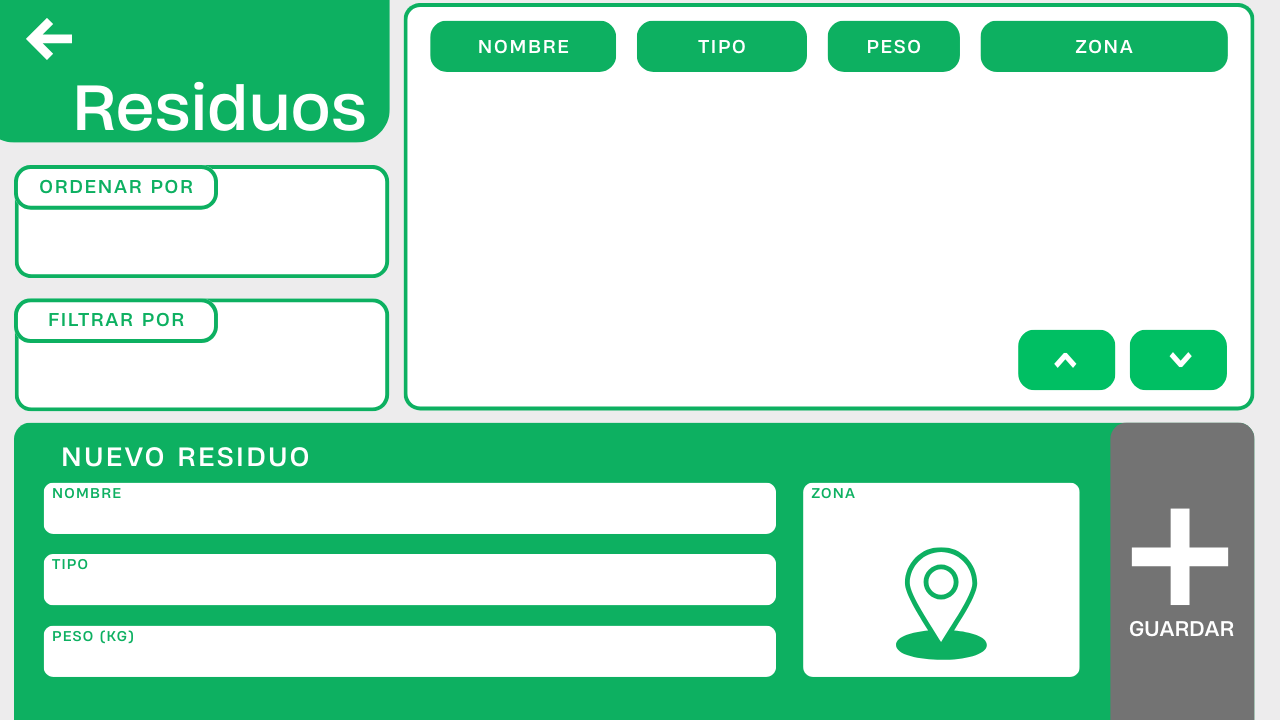
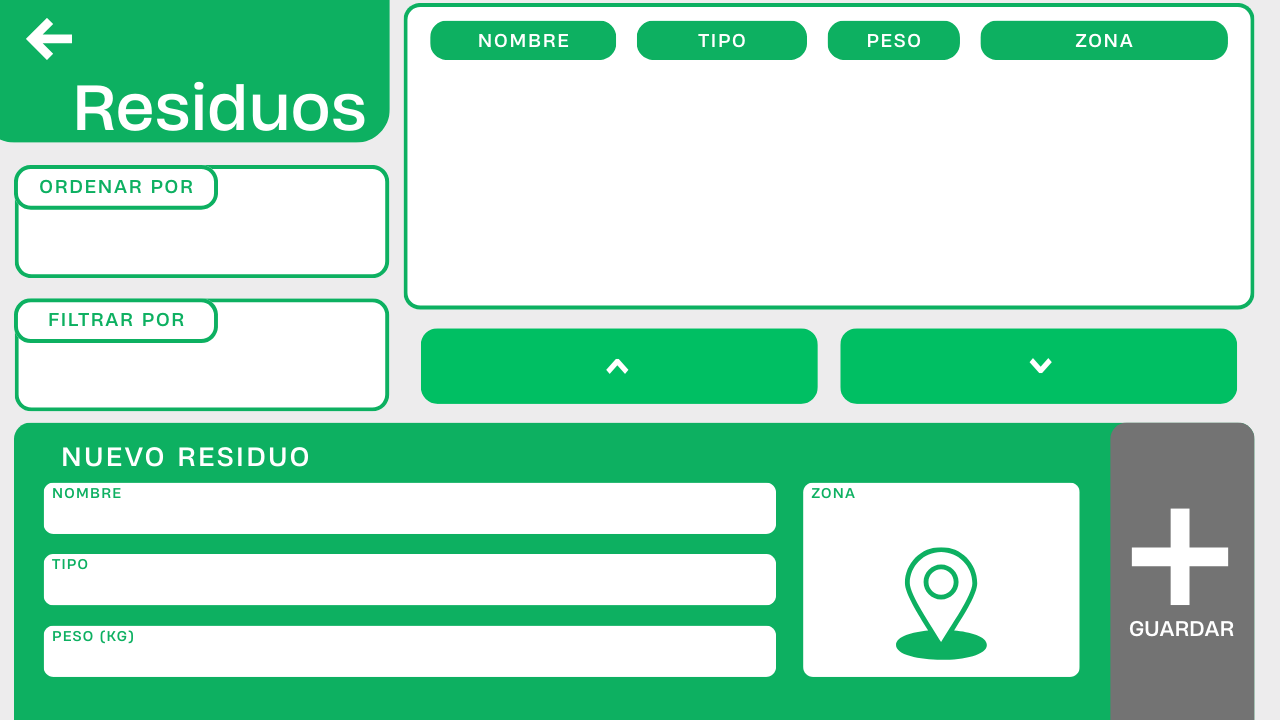
Residuos se muestran enlsitados en ResiduosScene una vez agregados y son almacenados.

Changed region(s): [[0.3125, 0.3972, 1.0, 0.5806], [0.3125, 0.0306, 0.9688, 0.1222]]

diff --git a/src/controladores/ResiduosController.java b/src/controladores/ResiduosController.java
@@ -5,6 +5,7 @@
 package controladores;
 
 import ecotrack.Zona;
+import ecotrack.ZonaGuayaquil;
 import ecotrack.Residuo;
 import ecotrack.TipoResiduo;
 import ecotrack.ListaResiduos;
@@ -22,6 +23,7 @@ import javafx.scene.Scene;
 import javafx.scene.control.Button;
 import javafx.scene.control.ChoiceBox;
 import javafx.scene.control.Label;
+import javafx.scene.control.ListView;
 import javafx.scene.control.TextField;
 import javafx.scene.image.ImageView;
 import javafx.scene.paint.Color;
@@ -37,7 +39,16 @@ public class ResiduosController implements Initializable{
 
     private Stage stage;
     private Scene scene;
-    private Parent root;    
+    private Parent root;
+
+    @FXML    
+    private ListView<String> nombreShownListView;
+    @FXML
+    private ListView<TipoResiduo> tipoShownListView;
+    @FXML
+    private ListView<Double> pesoShownListView;
+    @FXML
+    private ListView<ZonaGuayaquil> zonaShownListView;
     
     @FXML
     private ImageView residuosSceneView;
@@ -59,24 +70,25 @@ public class ResiduosController implements Initializable{
     @FXML
     private ChoiceBox<String> filtradoChoiceBox;
     @FXML
-    private ChoiceBox<String> zonaChoiceBox;
+    private ChoiceBox<ZonaGuayaquil> zonaChoiceBox;
     
     private String[] opcionesFiltrado = {};
     private String[] opcionesOrdenado = {};
-    private String[] zonas = {"Fortin / Monte Sinai", "Vergeles", "Sauces / Samanes", "Bastion", "Via a la Costa 1", "Via a la Costa 2", "Urdesa / Kennedy", "San Felipe / Mapasingue", "Samborondon", "Prosperina / Ceibos", "Portete", "Parque Centenario", "Isla Trinitaria", "Isla Mocoli", "Guasmo", "FAE", "Entre Rios / La Puntilla", "Centro"};
-    private TipoResiduo[] tiposResiduo = TipoResiduo.values();
+    
+    private String ordenamiento;
+    private String filtrado;
     
     private String nombreResiduo;
     private TipoResiduo tipoResiduo;
     private int valorPeso;
-    private Zona zonaResiduo;
+    private ZonaGuayaquil zonaResiduo;
     
     @Override
     public void initialize(URL arg0, ResourceBundle arg1){
-        tipoChoiceBox.getItems().addAll(tiposResiduo);
+        tipoChoiceBox.getItems().addAll(TipoResiduo.values());
         tipoChoiceBox.setOnAction(this::establecerTipo);
         
-        zonaChoiceBox.getItems().addAll(zonas);
+        zonaChoiceBox.getItems().addAll(ZonaGuayaquil.values());
         zonaChoiceBox.setOnAction(this::establecerZona);
         
         ordenamientoChoiceBox.getItems().addAll(opcionesOrdenado);
@@ -84,10 +96,18 @@ public class ResiduosController implements Initializable{
         
         filtradoChoiceBox.getItems().addAll(opcionesFiltrado);
         filtradoChoiceBox.setOnAction(this::elegirFiltrado);
+        
+        for (Residuo r : ListaResiduos.getListaResiduosGlobal()){
+            nombreShownListView.getItems().add(r.getNombre());
+            tipoShownListView.getItems().add(r.getTipo());
+            pesoShownListView.getItems().add(r.getPeso());
+            zonaShownListView.getItems().add(r.getZona().getZonaGuayaquil());
+        }
+        
     }
     
     public void establecerZona(ActionEvent event){
-        String zona = zonaChoiceBox.getValue();
+        zonaResiduo = zonaChoiceBox.getValue();
     }
     
     public void establecerTipo(ActionEvent event){
@@ -95,11 +115,11 @@ public class ResiduosController implements Initializable{
     }
     
     public void elegirOrdenamiento(ActionEvent event){
-        String ordenamiento = ordenamientoChoiceBox.getValue();
+        ordenamiento = ordenamientoChoiceBox.getValue();
     }
     
     public void elegirFiltrado(ActionEvent event){
-        String filtrado = filtradoChoiceBox.getValue();
+        filtrado = filtradoChoiceBox.getValue();
     }
     
     public void agregarResiduo(ActionEvent event){
@@ -135,9 +155,8 @@ public class ResiduosController implements Initializable{
 
             nombreResiduo = nombreField.getText();
             tipoResiduo = tipoChoiceBox.getValue();
-            
 
-            Residuo r = new Residuo(nombreResiduo, tipoResiduo, valorPeso);
+            Residuo r = new Residuo(nombreResiduo, tipoResiduo, valorPeso, zonaResiduo);
             ListaResiduos.getListaResiduosGlobal().addLast(r);
 
             avisoLabel.setText("Se agregó el Residuo Exitosamente");
@@ -145,6 +164,13 @@ public class ResiduosController implements Initializable{
 
             // Limpiar campos después de agregar exitosamente
             limpiarCampos();
+            
+            for (Residuo re : ListaResiduos.getListaResiduosGlobal()){
+                nombreShownListView.getItems().add(re.getNombre());
+                tipoShownListView.getItems().add(re.getTipo());
+                pesoShownListView.getItems().add(re.getPeso());
+                zonaShownListView.getItems().add(re.getZona().getZonaGuayaquil());
+            }
 
         }
         catch (NumberFormatException e){
@@ -155,6 +181,7 @@ public class ResiduosController implements Initializable{
             avisoLabel.setText("Error: " + e.getMessage());
             avisoLabel.setTextFill(Color.RED);
         }
+        
     }
 
     // Método auxiliar para limpiar campos

diff --git a/src/ecotrack/ListaZonas.java b/src/ecotrack/ListaZonas.java
@@ -1,0 +1,112 @@
+/*
+ * Click nbfs://nbhost/SystemFileSystem/Templates/Licenses/license-default.txt to change this license
+ * Click nbfs://nbhost/SystemFileSystem/Templates/Classes/Class.java to edit this template
+ */
+package ecotrack;
+
+import TDA.CircularDoublyLinkedList;
+
+/**
+ *
+ * @author Paúl Rodríguez
+ */
+
+public class ListaZonas extends CircularDoublyLinkedList<Zona> {
+    
+    private static ListaZonas instance;
+    
+    // Constructor privado
+    private ListaZonas() {
+        super();
+        inicializarZonas();
+    }
+    
+    // Método para obtener la única instancia
+    public static ListaZonas getInstance() {
+        if (instance == null) {
+            instance = new ListaZonas();
+        }
+        return instance;
+    }
+    
+    // Inicializar todas las zonas de Guayaquil
+    private void inicializarZonas() {
+        for (ZonaGuayaquil zonaEnum : ZonaGuayaquil.values()) {
+            Zona zona = new Zona(zonaEnum);
+            addLast(zona);
+        }
+    }
+    
+    // MÉTODO PRINCIPAL: Buscar zona por enum
+    public Zona buscarPorZonaGuayaquil(ZonaGuayaquil zonaGuayaquil) {
+        for (Zona zona : this) {
+            if (zona.getZonaGuayaquil() == zonaGuayaquil) {
+                return zona;
+            }
+        }
+        return null; // No debería ocurrir si todas las zonas están inicializadas
+    }
+    
+    // Método alternativo: buscar por nombre
+    public Zona buscarPorNombre(String nombre) {
+        for (Zona zona : this) {
+            if (zona.getZonaGuayaquil().toString().equalsIgnoreCase(nombre)) {
+                return zona;
+            }
+        }
+        return null;
+    }
+    
+    // Obtener peso total pendiente de todas las zonas
+    public int calcularPesoTotalPendiente() {
+        int total = 0;
+        for (Zona zona : this) {
+            total += zona.getPesoPendiente();
+        }
+        return total;
+    }
+    
+    // Obtener zona con más peso pendiente
+    public Zona obtenerZonaMasPendiente() {
+        if (isEmpty()) {
+            return null;
+        }
+        
+        Zona zonaMasPendiente = get(0);
+        for (Zona zona : this) {
+            if (zona.getPesoPendiente() > zonaMasPendiente.getPesoPendiente()) {
+                zonaMasPendiente = zona;
+            }
+        }
+        return zonaMasPendiente;
+    }
+    
+    // Para JavaFX - Conversión a ObservableList
+    public javafx.collections.ObservableList<Zona> toObservableList() {
+        javafx.collections.ObservableList<Zona> observableList
+                = javafx.collections.FXCollections.observableArrayList();
+        
+        for (Zona zona : this) {
+            observableList.add(zona);
+        }
+        
+        return observableList;
+    }
+    
+    @Override
+    public String toString() {
+        if (isEmpty()) {
+            return "ListaZonas[vacía]";
+        }
+        
+        StringBuilder sb = new StringBuilder();
+        sb.append("ListaZonas[\n");
+        
+        for (Zona zona : this) {
+            sb.append("  ").append(zona.toString()).append("\n");
+        }
+        
+        sb.append("]");
+        return sb.toString();
+    }
+}

diff --git a/src/ecotrack/Residuo.java b/src/ecotrack/Residuo.java
@@ -12,21 +12,30 @@ import java.time.LocalDate;
  */
 public class Residuo {
 
-    private int currentId = 0;
+    private static int currentId = 0;
     private int id;
     private String nombre;
     private TipoResiduo tipo;
     private double peso;
     private LocalDate fechaRecoleccion;
     private int prioridad;
+    private Zona zona;
 
-    public Residuo(String nombre, TipoResiduo tipo, double peso){
+    public Residuo(String nombre, TipoResiduo tipo, double peso, ZonaGuayaquil zona){
         id = currentId++;
         this.nombre = nombre;
         this.tipo = tipo;
         this.peso = peso;
         fechaRecoleccion = null;
+        
+        this.zona = ListaZonas.getInstance().buscarPorZonaGuayaquil(zona);
+        
+        if (this.zona != null) {
+            this.zona.setPesoPendiente(this.zona.getPesoPendiente() + peso);
+        }
+        
         System.out.println(this);
+        
     }
     
     public int getId() {
@@ -74,6 +83,13 @@ public class Residuo {
     }
     public void setPrioridad(int n){
         prioridad= n;
+    }
+    
+    public Zona getZona(){
+        return zona;
+    }
+    public void setZona(Zona z){
+        zona = z;
     }
     
     @Override

diff --git a/src/ecotrack/Zona.java b/src/ecotrack/Zona.java
@@ -10,12 +10,19 @@ package ecotrack;
  */
 
 public class Zona {
-    int pesoPendiente;
+    private ZonaGuayaquil zonaGuayaquil;
+    double pesoPendiente;
     
-    public int getPesoPendiente(){ return pesoPendiente; }
-    public void setPesoPendiente(int p){ pesoPendiente = p; }
+    public Zona(ZonaGuayaquil zonaGuayaquil) {
+        this.zonaGuayaquil = zonaGuayaquil;
+        this.pesoPendiente = 0;
+    }
     
-    public int calcularUtilidadAmbiental(int pesoRecolectado){
+    public double getPesoPendiente(){ return pesoPendiente; }
+    public void setPesoPendiente(double p){ pesoPendiente = p; }
+    public ZonaGuayaquil getZonaGuayaquil(){ return zonaGuayaquil; }
+    
+    public double calcularUtilidadAmbiental(int pesoRecolectado){
         return pesoRecolectado - pesoPendiente;  
     }
     

diff --git a/src/ecotrack/ZonaGuayaquil.java b/src/ecotrack/ZonaGuayaquil.java
@@ -1,0 +1,30 @@
+/*
+ * Click nbfs://nbhost/SystemFileSystem/Templates/Licenses/license-default.txt to change this license
+ * Click nbfs://nbhost/SystemFileSystem/Templates/Classes/Enum.java to edit this template
+ */
+package ecotrack;
+
+/**
+ *
+ * @author Paúl Rodríguez
+ */
+public enum ZonaGuayaquil {
+    FORTIN_MONTE_SINAI,
+    VERGELES,
+    SAUCES_SAMANES,
+    BASTION,
+    VIA_COSTA_1,
+    VIA_COSTA_2,
+    URDESA_KENNEDY,
+    SAN_FELIPE_MAPASINGUE,
+    SAMBORONDON,
+    PROSPERINA_CEIBOS,
+    PORTETE,
+    PARQUE_CENTENARIO,
+    ISLA_TRINITARIA,
+    ISLA_MOCOLI,
+    GUASMO,
+    FAE,
+    ENTRE_RIOS_PUNTILLA,
+    CENTRO;
+}

diff --git a/src/Utilitaria/ZonaComparators.java b/src/Utilitaria/ZonaComparators.java
@@ -15,7 +15,7 @@ public class ZonaComparators {
     public static Comparator<Zona> porVolumenResiduos(){
         return (o1, o2) -> {
             if (o1 == null || o2 == null) return 0;
-            return Integer.compare(o1.getPesoPendiente(), o2.getPesoPendiente());
+            return Double.compare(o1.getPesoPendiente(), o2.getPesoPendiente());
         };
     }
 }
